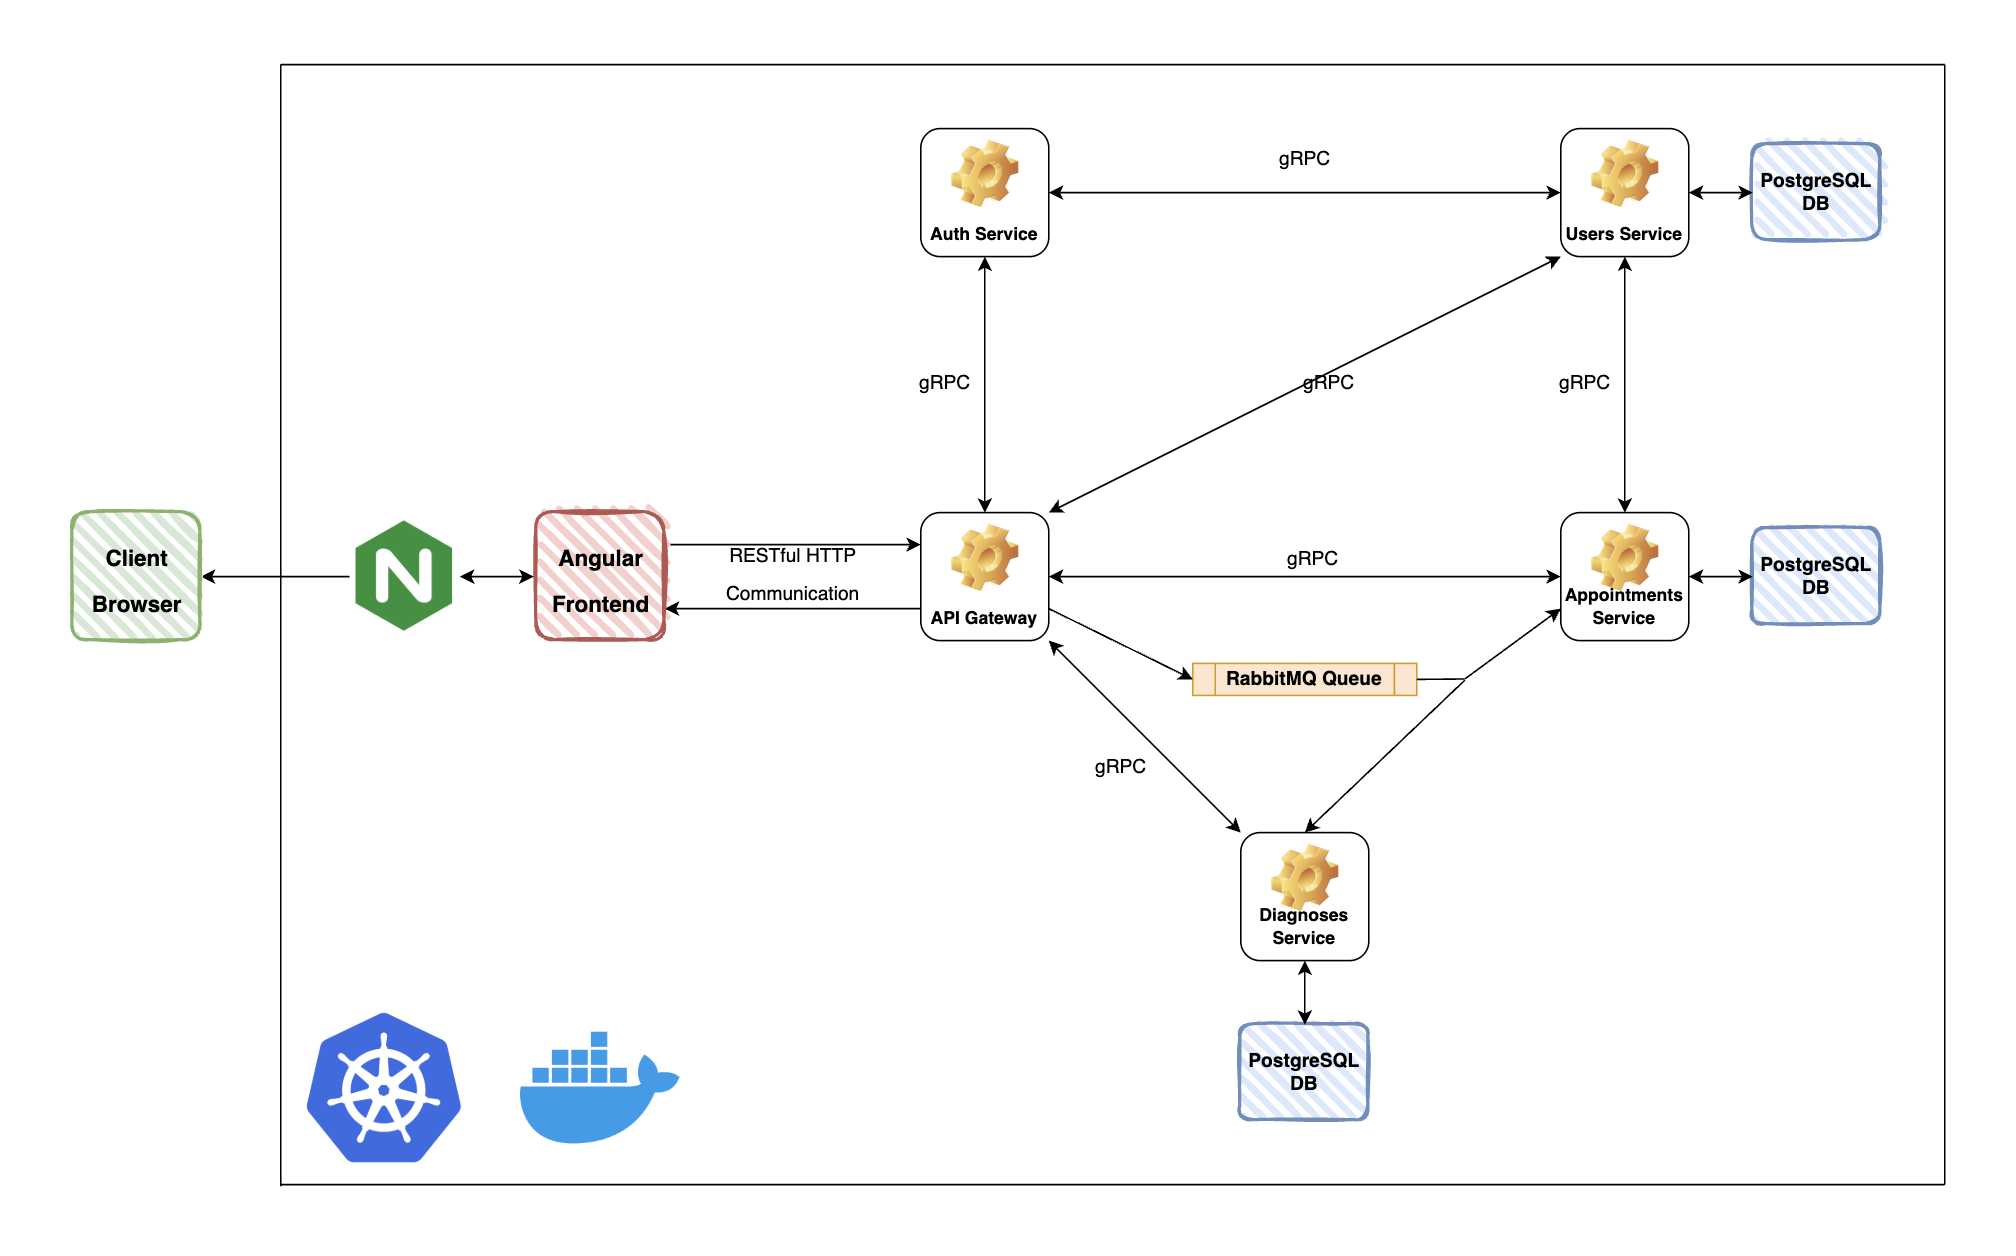
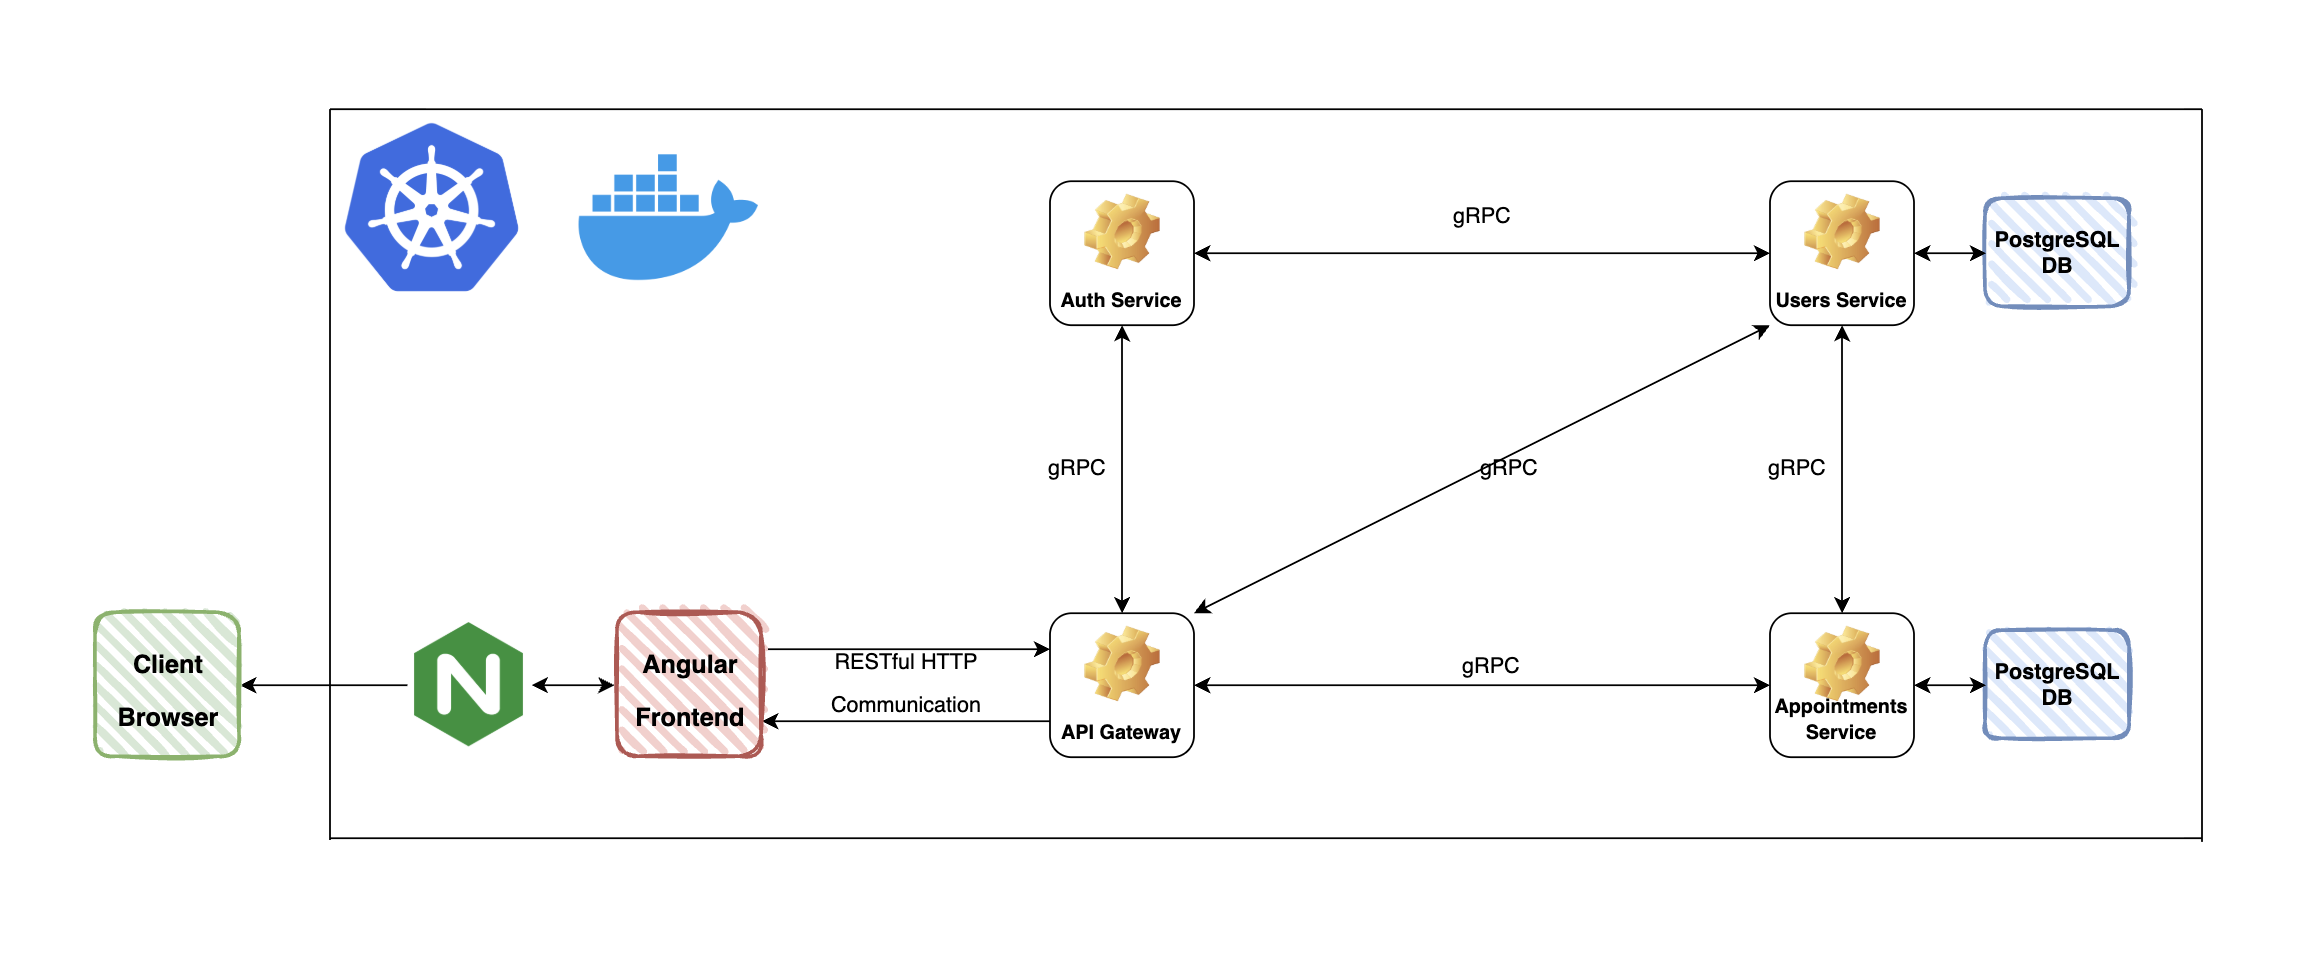
Update readme

diff --git a/README.md b/README.md
@@ -14,7 +14,6 @@ Key technologies:
 - Web Server: Nginx
 - Backend: Java with the Maven build tool
 - Inter-service Communication: gRPC
-- Asynchronous Communication: RabbitMQ message queues
 - API Gateway: A Spring Boot RESTful HTTP API
 - Database: PostgreSQL
 - Containerization: Docker
@@ -23,8 +22,6 @@ Key technologies:
 Apart from the frontend, all services are built using `Java`. `Maven` is used as a build tool. All services live
 within their own `Maven` project, and all projects live under a parent `Maven` project as a multi-module setup.
 
-The system uses event-driven techniques for asynchronous communication using `RabbitMQ` message queues.
-
 Inter-service communication uses Google's implementation of `Remote Procedure Calls` - `gRPC`.
 
 The frontend communicates with the services through a `RESTful HTTP API` gateway. `Nginx` is used as a web server, inside
@@ -32,9 +29,8 @@ the Docker image, to serve the built Angular files to the client's browser.
 
 Services that require data persistence use a common `PostgreSQL` server instance with independent databases inside.
 
-The services are containerized in `Docker` containers. All containers are orchestrated using `Kubernetes`.
-Additionally, dependencies like the `PostgreSQL` server and the `RabbitMQ` server are also added to the cluster using
-manifests.
+The services are containerized in `Docker` containers. All containers are orchestrated using `Kubernetes`. Additionally,
+dependencies like the `PostgreSQL` database are also added to the cluster using manifests.
 
 List of all services:
  - A frontend service
@@ -42,7 +38,6 @@ List of all services:
  - An `Auth` service
  - An `Appointments` service
  - A `Users` service
- - A `Diagnoses` service
 
 ## Architecture
 Here is an image of what the system's architecture looks like
@@ -59,26 +54,20 @@ create a system optimized for scaling, but rather learn more about distributed s
 ### Why use different means of communication, and not stick to simple RESTful APIs?
 The reasons to include multiple means of network communication are two. First, again to expose myself to new,
 modern technologies with the intention of learning more about them. Two, optimize inter-service communication for
-performance and end-user UX. An HTTP request that bounces from service to service might take a significant amount
+performance and end-user experience. An HTTP request that bounces from service to service might take a significant amount
 of time, depending on the headers and body size. Additionally, any database IO operations that a service might need
-to perform to fulfil the request will add more time overhead. To solve this, I've decided to build the
-inter-service communication entirely on Remote Procedure Calls and message brokers. RPC is 5/6 times faster than
-JSON, due to the binary serialization and deserialization, and message brokers allow for asynchronous events which
-can trigger the parallel execution of different processes inside multiple services.
+to perform, to fulfil the request will add more time overhead. To solve this, I've decided to build the
+inter-service communication entirely on Remote Procedure Calls. RPC is 5/6 times faster than JSON, due to the binary
+serialization and deserialization.
 
 ### Why use Kubernetes?
 My best option would have been to use Docker Compose for defining and running multiple Docker containers for each
 of the services. However, Kubernetes is the de-facto standard for deploying and orchestrating distributed systems.
 The point of using a Kubernetes cluster is mainly for learning purposes.
 
-### Why choose Angular over React?
-React is much simpler to use than Angular. For the purpose of this application, React with React Router would have
-been plenty. However, Angular is much more popular for production applications at scale, thus adds more value to
-learning it.
-
 ### Why use my own auth?
 Proper authentication and authorization are notoriously hard to implement. Many companies use third-party tools to
 ensure secure auth for their applications. Implementing my own auth brings nothing more than learning more about
 it. In this particular case, the system is not going to ever be used in a production setting with real users, so
-proper security is not of utmost importance. Still, to follow best practices, I have decided to set the expiration
-of the JWT tokens to only 15 minutes, in order to minimize the chance of cross-site request forgery (CSRF) attacks.
+proper security is not of upmost importance. Still, to follow best practices, I have decided to set the expiration
+of the JWT tokens to only 60 minutes, to minimize the chance of cross-site request forgery (CSRF) attacks.
